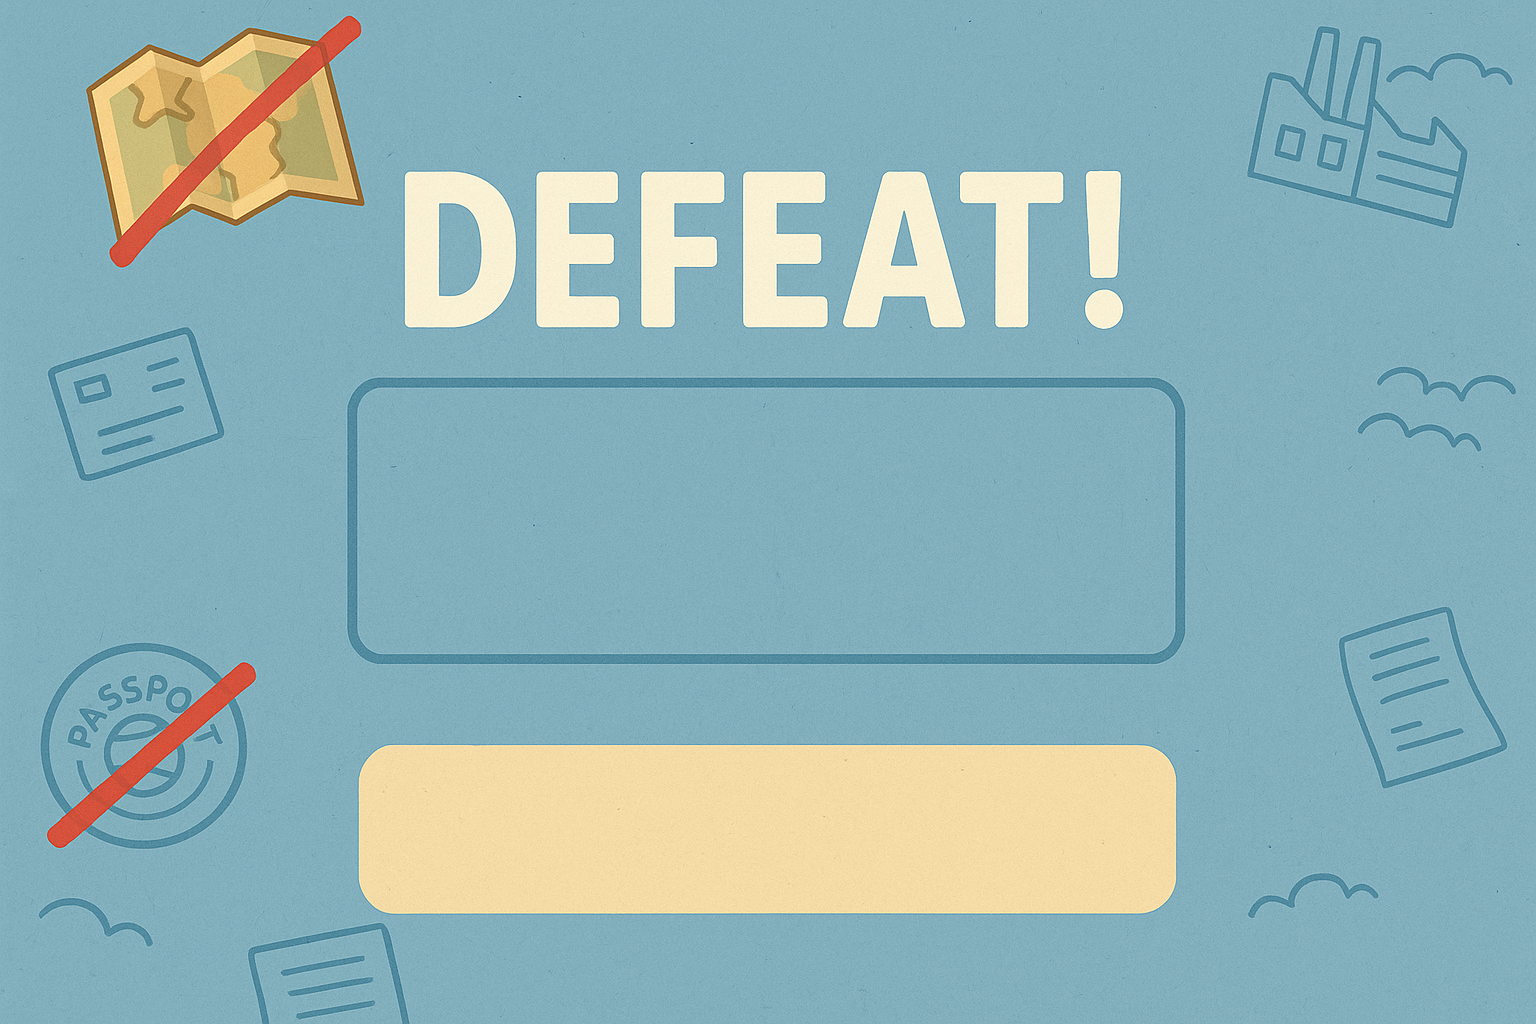
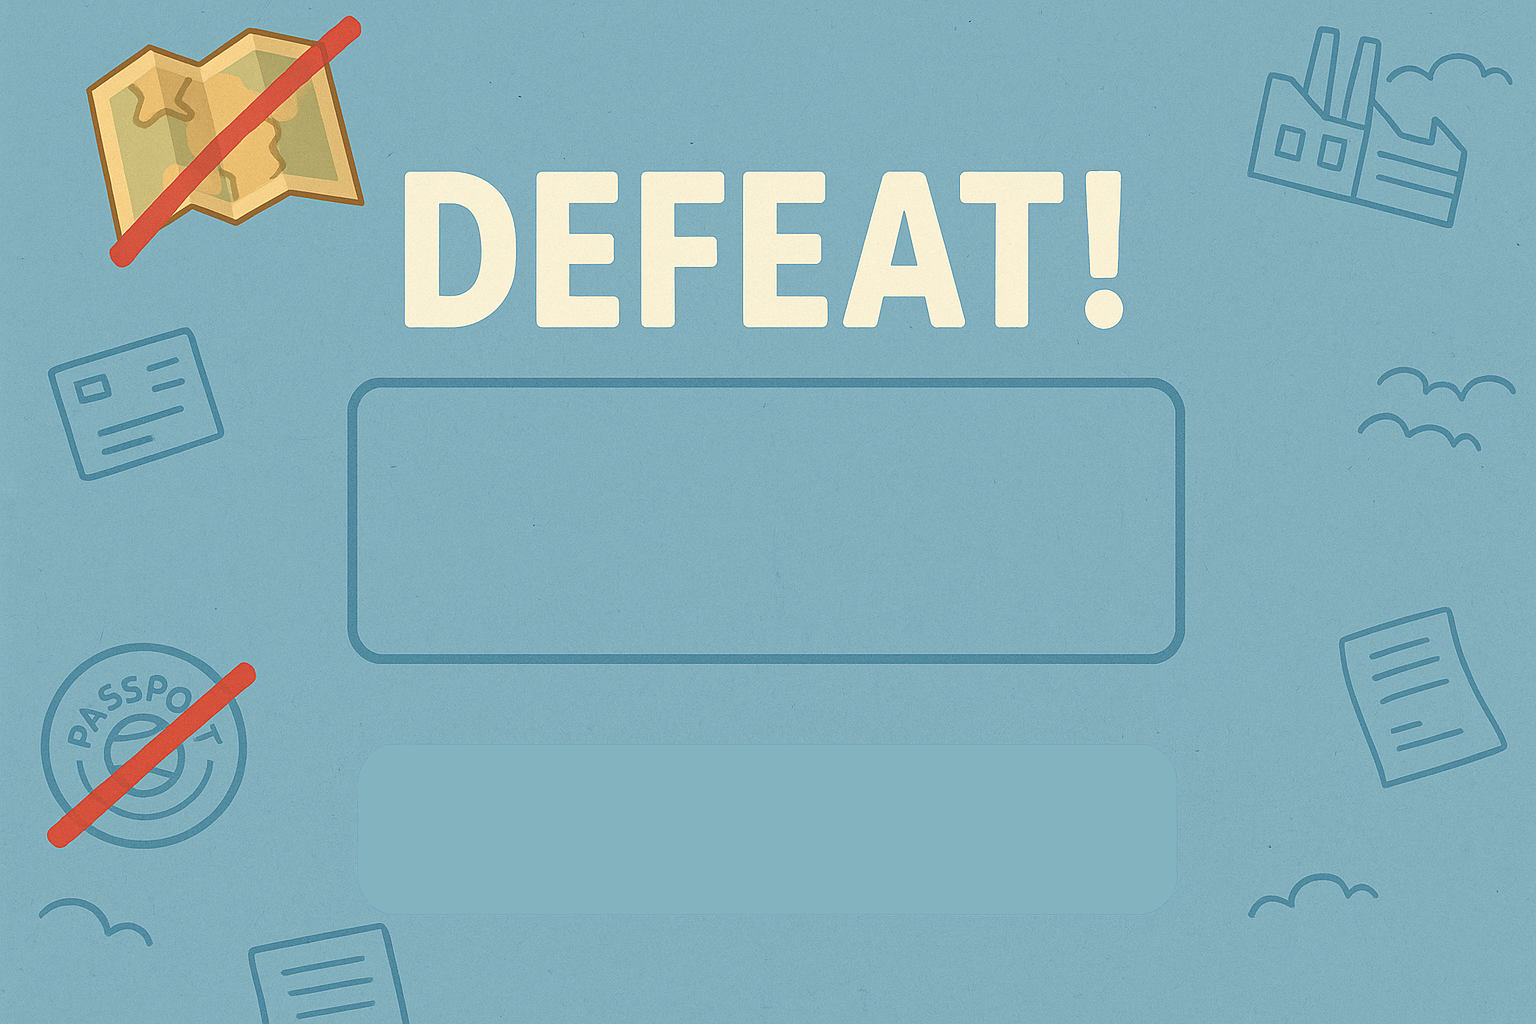
add lives and play again button

Changed region(s): [[0.2188, 0.7188, 0.7812, 0.9062]]

diff --git a/main.cpp b/main.cpp
@@ -17,7 +17,11 @@ int main()
 
     std::string caleImagine = imagineAleasa.first;
     Tara taraCorecta = imagineAleasa.second;
-    sf::Texture normalTexture, hoverTexture, clickedTexture,introTexture,startNormalTexture,startHoverTexture,startClickedTexture;
+
+    sf::Texture normalTexture, hoverTexture, clickedTexture,introTexture,
+    startNormalTexture,startHoverTexture,startClickedTexture,
+    closeNormalTexture,closeHoverTexture,closeClickedTexture;
+
     sf::Font font;
     incarcaTexture("buttons/normal.png",normalTexture);
     incarcaTexture("buttons/hover.png",hoverTexture);
@@ -25,24 +29,25 @@ int main()
     incarcaTexture("buttons/start_normal.png",startNormalTexture);
     incarcaTexture("buttons/start_hover.png",startHoverTexture);
     incarcaTexture("buttons/start_clicked.png",startClickedTexture);
+    incarcaTexture("buttons/closeButonNormal.png",closeNormalTexture);
+    incarcaTexture("buttons/closeButonHover.png",closeHoverTexture);
+    incarcaTexture("buttons/closeButonClicked.png",closeClickedTexture);
     incarcaFont("fonts/Dosis-Light.ttf",font);
     incarcaTexture(caleImagine,introTexture);
     sf::Sprite introSprite(introTexture);
 
-    Button startButton(startNormalTexture, startHoverTexture, startClickedTexture, font, "",0,0.4);
-    startButton.setPosition(470, 420);
 
-    Button guessButton(normalTexture, hoverTexture, clickedTexture, font, "Open map",60,0.6);
-    guessButton.setPosition(600, 50);
 
     std::cout<<taraCorecta.getNume();
-    sf::Texture texture,harta_alba,startImg, backPoze ,victoryTexture,lostTexture;
+    sf::Texture texture,harta_alba,startImg, backPoze,victoryTexture,lostTexture,heartTexture, noheartTexture;
     incarcaTexture("visuals/worldmap_colorat.png",texture);
     incarcaTexture("visuals/worldmap.png",harta_alba);
     incarcaTexture("visuals/startImg.png",startImg);
     incarcaTexture("visuals/backgroundPoze.png",backPoze);
     incarcaTexture("visuals/victorie.png",victoryTexture);
     incarcaTexture("visuals/lost.png",lostTexture);
+    incarcaTexture("visuals/heart.png",heartTexture);
+    incarcaTexture("visuals/nonheart.png",noheartTexture);
 
     sf::Sprite sprite(texture);
     sf::Sprite harta(harta_alba);
@@ -50,6 +55,23 @@ int main()
     sf::Sprite backImg(backPoze);
     sf::Sprite victorySprite(victoryTexture);
     sf::Sprite lostSprire(lostTexture);
+
+    std::vector<sf::Sprite> hearts =
+    {
+        sf::Sprite(heartTexture),
+        sf::Sprite(heartTexture),
+        sf::Sprite(heartTexture)
+    };
+
+    std::vector<sf::Sprite> noHearts =
+    {
+        sf::Sprite(noheartTexture),
+        sf::Sprite(noheartTexture),
+        sf::Sprite(noheartTexture)
+    };
+
+
+
     sf::Vector2u mapSize = texture.getSize();
 
 
@@ -67,22 +89,42 @@ int main()
     sf::View view = window.getDefaultView();
     sf::Image image = texture.copyToImage();
     sf::Image hartaAlbaGoala = harta_alba.copyToImage();
+
     sf::Text selectedCountryText(font,"Selecteaza o tara!",50);
     selectedCountryText.setFillColor(sf::Color::Black);
     selectedCountryText.setPosition({1450.f, 880.f});
 
-    //   sf::Text selectedCountryText(font,"Selecteaza o tara!",50);
+    sf::Text correctAnswer(font,"",100);
+    correctAnswer.setFillColor(sf::Color::White);
+    correctAnswer.setPosition({600,450});
 
     Button confirmButton(normalTexture, hoverTexture, clickedTexture, font, "Confirm!",60,0.6);
     confirmButton.setPosition(1450.f,950.f);
 
+    Button startButton(startNormalTexture, startHoverTexture, startClickedTexture, font, "",0,0.4);
+    startButton.setPosition(470, 420);
+
+    Button guessButton(normalTexture, hoverTexture, clickedTexture, font, "Guess",60,0.6);
+    guessButton.setPosition(850, 950);
+
+    Button seeAgainButton(normalTexture, hoverTexture, clickedTexture, font, "Back",60,0.6);
+    seeAgainButton.setPosition(150, 950);
+
+    Button playAgainButton(normalTexture, hoverTexture, clickedTexture, font, "Play again",80,1);
+    playAgainButton.setPosition(700, 800);
+
+    Button closeButton(closeNormalTexture, closeHoverTexture, closeClickedTexture, font, "",0,0.3);
+    closeButton.setPosition(1880, 10);
+
+
+
+
     sf::Color ocean(182,220,243);
-    bool dragging=false, answered=false;
+
+    bool dragging=false;
     sf::Vector2i lastMousePos;
-    Tara* taraSelectata=nullptr;//, *taraConfirmata=nullptr;
-    Tara taraConfirmata;
-    int vieti=3;
-    int gameState=2;
+    Tara* taraSelectata=nullptr, taraConfirmata;
+    int vieti=3, gameState=0;
     while (window.isOpen())
     {
         while (const std::optional event = window.pollEvent())
@@ -93,33 +135,50 @@ int main()
             {
                 window.close();
             }
-            else if (const auto* scroll = event->getIf<sf::Event::MouseWheelScrolled>())
+            else if(closeButton.Clicked())
             {
-                if (scroll->wheel == sf::Mouse::Wheel::Vertical)
-                    if(gameState==1)
+                window.close();
+            }
+
+
+            if (gameState==0)
+            {
+
+                if (startButton.Clicked())
+                {
+                    gameState=1;
+                    startButton.setClickedFalse();
+                }
+            }
+
+            else if (gameState==1)
+            {
+                if (guessButton.Clicked())
+                {
+                    gameState=2;
+                    guessButton.setClickedFalse();
+                }
+                else if (seeAgainButton.Clicked())
+                {
+                    gameState=1;
+                    seeAgainButton.setClickedFalse();
+                }
+            }
+            else if (gameState==2)
+            {
+                if (const auto* scroll = event->getIf<sf::Event::MouseWheelScrolled>())
+                {
+                    if (scroll->wheel == sf::Mouse::Wheel::Vertical)
                     {
                         float zoomFactor = (scroll->delta > 0) ? 0.9f : 1.1f;
                         zoomViewAt(sf::Mouse::getPosition(window), window, view, zoomFactor);
                     }
-            }
-            else if (startButton.Clicked())
-            {
-                if(gameState==2)
-                    gameState=0;
-                startButton.setClickedFalse();
-            }
-            else if (guessButton.Clicked())
-            {
-                if (gameState==0)
-                    gameState=1;
 
-                guessButton.setClickedFalse();
-            }
+                }
 
-            else if (const auto* mouseButton = event->getIf<sf::Event::MouseButtonPressed>())
-            {
-                if(gameState==1)
+                else if (const auto* mouseButton = event->getIf<sf::Event::MouseButtonPressed>())
                 {
+
                     if (mouseButton->button == sf::Mouse::Button::Right)
                     {
                         dragging = true;
@@ -129,38 +188,40 @@ int main()
                     else if (mouseButton->button == sf::Mouse::Button::Left)
                     {
 
+                        auto mousePosition=sf::Mouse::getPosition(window);
 
-                        sf::Vector2f worldPos = window.mapPixelToCoords(sf::Mouse::getPosition(window));
-                        if(confirmButton.getSprite().getGlobalBounds().contains({sf::Mouse::getPosition(window).x,sf::Mouse::getPosition(window).y}))
+                        if(ButtonPressed(confirmButton.getSprite(),(sf::Vector2f)mousePosition))
                         {
                             if (taraSelectata!=nullptr)
                             {
 
                                 taraConfirmata=*taraSelectata;
-                                // std::cout<<taraConfirmata.getNume();
-                                bool answered=1;
+
                                 if(taraConfirmata.getNume()==taraCorecta.getNume())
-                                {
                                     gameState=3;
-                                }
+
                                 else
                                 {
-                                    std::cout<<"Mai incearca mai ai "<<--vieti<<"vieti\n";
+                                    vieti--;
                                     selectedCountryText.setString("Gresit!");
-
-                                    if(vieti<0)
+                                    if(vieti==0)
                                         gameState=3;
                                 }
-
                             }
+                        }
+                        else if (ButtonPressed(seeAgainButton.getSprite(),(sf::Vector2f)mousePosition))
+                        {
+                            window.setView(window.getDefaultView());
+                            gameState=1;
                         }
                         else
                         {
+                            sf::Vector2f worldPos = window.mapPixelToCoords(mousePosition);
+
                             sf::Color color = image.getPixel({worldPos.x,worldPos.y});
 
                             if (color!=ocean)
                                 taraSelectata = cautaTaraDupaCuloare(color, tari);
-                            //std::cout<<taraSelectata->getNume();
                             if (taraSelectata != nullptr)
                             {
                                 selectedCountryText.setString("Ai selectat: " + taraSelectata->getNume());
@@ -169,25 +230,21 @@ int main()
                                 selecteazaTara(mapSize,image,taraSelectata->getCuloare(),hartaImage);
                                 harta_alba.loadFromImage(hartaImage); // reincarca textura hartii albe din imagine modificata
                                 harta.setTexture(harta_alba);
-
                             }
                         }
                     }
                 }
+                else if (event->is<sf::Event::MouseButtonReleased>())
+                {
 
-
-            }
-            else if (event->is<sf::Event::MouseButtonReleased>())
-            {
-                if (gameState==1)
                     if (event->getIf<sf::Event::MouseButtonReleased>()->button == sf::Mouse::Button::Right)
                     {
                         dragging = false;
                     }
-            }
-            else if (event->is<sf::Event::MouseMoved>())
-            {
-                if (gameState==1)
+                }
+                else if (event->is<sf::Event::MouseMoved>())
+                {
+
                     if (dragging)
                     {
                         sf::Vector2i newMousePos = sf::Mouse::getPosition(window);
@@ -195,57 +252,84 @@ int main()
                         view.move(delta);
                         lastMousePos = newMousePos;
                     }
+                }
             }
+            else if (gameState==3)
+            {
+                correctAnswer.setString("Raspunsul corect a fost \n"+taraCorecta.getNume());
+                if(playAgainButton.Clicked())
+                {
 
+                    vieti=3;
+                    changeImage(imaginiDeGhicit,taraCorecta,introTexture,introSprite);
+                    harta_alba.loadFromImage(hartaAlbaGoala);
+                    selectedCountryText.setString("Selecteaza o tara!");
+                    scaleSpriteRatio(introTexture.getSize(),window.getSize(),introSprite);
+                    spriteCenter(window.getSize(),introSprite);
+                    gameState=1;
+                }
+
+            }
 
         }
 
 
 
         window.clear();
-        if (gameState==2)
+
+        closeButton.update(window);
+        if (gameState==0)
         {
             startButton.update(window);
             window.draw(startBackground);
+            closeButton.draw(window);
             startButton.draw(window);
-            window.display();
 
         }
-        else if (gameState==0)
+        else if (gameState==1)
         {
             guessButton.update(window);
+
             window.draw(backImg);
             window.draw(introSprite);
+            closeButton.draw(window);
             guessButton.draw(window);
-            window.display();
+            drawHearts(hearts,noHearts,window,vieti);
         }
         else if (gameState==3)
         {
-             if(taraConfirmata.getNume()==taraCorecta.getNume())
-            window.draw(victorySprite);
+            window.setView(window.getDefaultView());
+            playAgainButton.update(window);
+
+
+
+            if(taraConfirmata.getNume()==taraCorecta.getNume())
+                window.draw(victorySprite);
             else
                 window.draw(lostSprire);
+            window.draw(correctAnswer);
+            closeButton.draw(window);
+            playAgainButton.draw(window);
 
-            window.display();
         }
         else
         {
             confirmButton.update(window);
+            seeAgainButton.update(window);
             window.setView(view);
             window.draw(harta);
 
-
             window.setView(window.getDefaultView());
             window.draw(selectedCountryText);
+            closeButton.draw(window);
             confirmButton.draw(window);
-
+            seeAgainButton.draw(window);
+            drawHearts(hearts,noHearts,window,vieti);
             window.setView(view);
-            window.display();
         }
+      //  window.setView(window.getDefaultView());
+       // closeButton.draw(window);
+      //  window.setView(view);
+        window.display();
     }
-    std::cout<<taraCorecta.getNume();
-    if(taraConfirmata.getNume()==taraCorecta.getNume())
-        std::cout<<"Raspuns corect";
-    else
-        std::cout<<"Ai pierdut";
 }

diff --git a/tara.cpp b/tara.cpp
@@ -14,7 +14,7 @@ class Tara
     Tara(const std::string& nume, const sf::Color& culoare)
         : nume(nume), culoare(culoare)
     {}
-Tara()=default;
+    Tara()=default;
     Tara(const Tara &t)
     {
         nume=t.nume;
